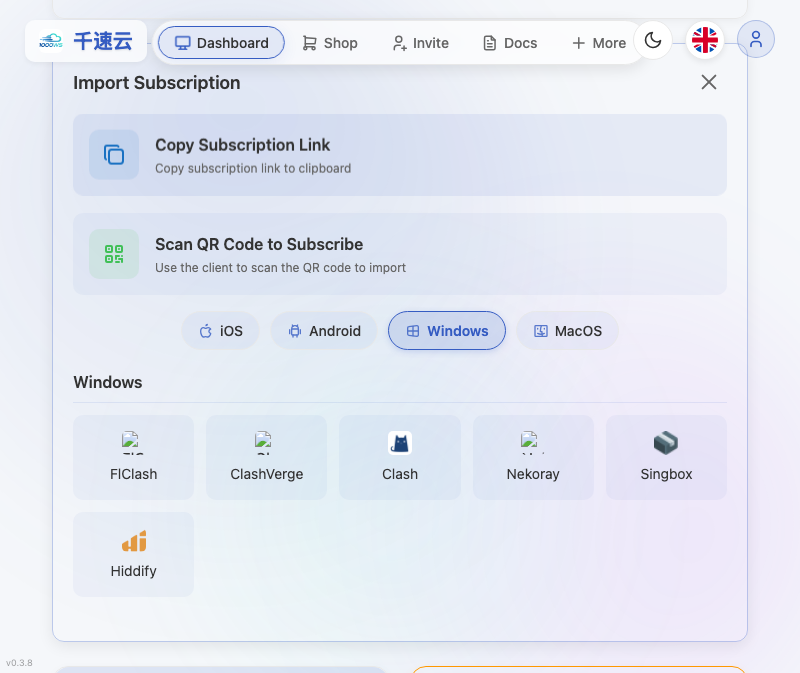
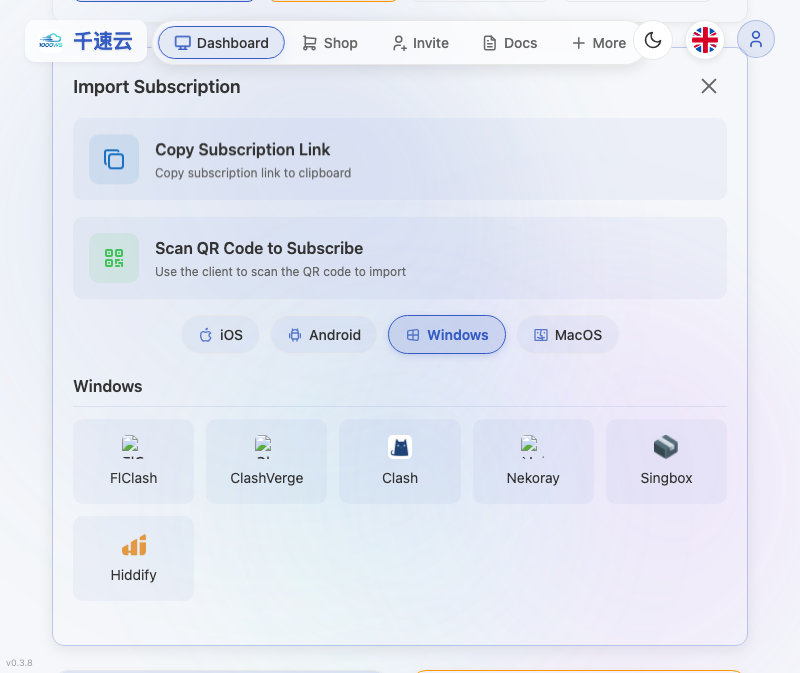
Update all modified files

diff --git a/test_browser.html b/test_browser.html
@@ -1,0 +1,95 @@
+<!DOCTYPE html><html lang="zh-CN" class=" " style="--theme-color: #355cc2; --theme-color-rgb: 53, 92, 194; --theme-hover-color: rgba(53, 92, 194, 0.9); --primary-color-hover: rgba(53, 92, 194, 0.9); --background-color: #f5f7fa; --card-background: #ffffff; --text-color: #333333; --secondary-text-color: #666666; --border-color: #e8e8e8; --shadow-color: rgba(0, 0, 0, 0.1);"><head><meta charset="UTF-8"><meta name="viewport" content="width=device-width,initial-scale=1,maximum-scale=1,user-scalable=no"><meta http-equiv="X-UA-Compatible" content="ie=edge"><link rel="icon" href="./images/logo.png"><title>Dashboard - 千速云</title><link rel="preconnect" href="https://fonts.googleapis.com"><link rel="preconnect" href="https://fonts.gstatic.com" crossorigin=""><link href="https://fonts.googleapis.com/css2?family=Inter:wght@300;400;500;600;700&amp;display=swap" rel="stylesheet" media="all" onload="this.media='all'"><noscript><link href="https://fonts.googleapis.com/css2?family=Inter:wght@300;400;500;600;700&display=swap" rel="stylesheet"></noscript><style>@media (min-width: 769px) {
+            html, body, div, main, section, article, aside, nav {
+                scrollbar-width: none !important;
+                -ms-overflow-style: none !important;
+            }
+
+            ::-webkit-scrollbar, ::-webkit-scrollbar-button, ::-webkit-scrollbar-track, ::-webkit-scrollbar-track-piece, ::-webkit-scrollbar-thumb, ::-webkit-scrollbar-corner, ::-webkit-resizer {
+                display: none !important;
+                width: 0 !important;
+                height: 0 !important;
+                background: transparent !important;
+            }
+        }
+
+        html, body {
+            width: 100%;
+            height: 100%;
+        }
+
+        @media (min-width: 769px) {
+            * {
+                scrollbar-width: none !important;
+                -ms-overflow-style: none !important;
+            }
+        }
+
+        html, body {
+            margin: 0;
+            padding: 0;
+            width: 100%;
+            height: 100%;
+            overflow-x: hidden;
+        }
+
+        #app {
+            width: 100%;
+            height: 100%;
+        }
+
+        html.preloader-active, body.preloader-active {
+            overflow: hidden !important;
+        }</style><style>.app-version {
+            position: fixed;
+            left: 6px;
+            bottom: 4px;
+            font-size: 9px;
+            color: rgba(0, 0, 0, 0.35);
+            user-select: none;
+            pointer-events: none;
+            z-index: 5;
+        }</style><script defer="defer" src="static/js/chunk-vendors.c3d07325.js"></script><script defer="defer" src="static/js/index.21cae11a.js"></script><link rel="stylesheet" type="text/css" href="static/css/827.4b6d285b.css"><link rel="stylesheet" type="text/css" href="static/css/412.77a1e99d.css"><link rel="stylesheet" type="text/css" href="static/css/742.f2006dc5.css"><link rel="stylesheet" type="text/css" href="static/css/655.6a2e988b.css"><link rel="stylesheet" type="text/css" href="static/css/16.ec419e51.css"><link rel="stylesheet" type="text/css" href="static/css/417.5b5dde83.css"><link rel="stylesheet" type="text/css" href="static/css/134.e7beeefd.css"><link rel="stylesheet" type="text/css" href="static/css/416.59b44173.css"><link rel="stylesheet" type="text/css" href="static/css/804.8f7d3a1f.css"><link rel="stylesheet" type="text/css" href="static/css/51.afdb0629.css"><link rel="stylesheet" type="text/css" href="static/css/548.68057f90.css"><link rel="stylesheet" type="text/css" href="static/css/69.be73cccc.css"><link rel="stylesheet" type="text/css" href="static/css/350.f40c898f.css"><style type="text/css">
+@keyframes y-axis-4ff796ae {
+to {
+    transform: translate3d(0, var(--floor-height), 0);
+}
+}
+@keyframes x-axis-4ff796ae {
+to {
+    transform: translate3d(var(--x-landing-point), 0, 0);
+}
+}
+@keyframes rotation-4ff796ae {
+to {
+    transform: rotate3d(var(--rotation), 360deg);
+}
+}
+.confetti-container[data-v-4ff796ae] {
+  width: 0;
+  height: 0;
+  overflow: visible;
+  position: relative;
+  transform: translate3d(var(--x, 0), var(--y, 0), 0);
+  z-index: 1200;
+}
+.confetti-container > .particle[data-v-4ff796ae] {
+  animation: x-axis-4ff796ae var(--duration-chaos) forwards cubic-bezier(var(--x1), var(--x2), var(--x3), var(--x4));
+}
+.confetti-container > .particle div[data-v-4ff796ae] {
+  position: absolute;
+  top: 0;
+  left: 0;
+  animation: y-axis-4ff796ae var(--duration-chaos) forwards cubic-bezier(var(--y1), var(--y2), var(--y3), var(--y4));
+  width: var(--width);
+  height: var(--height);
+}
+.confetti-container > .particle div[data-v-4ff796ae]:before {
+  display: block;
+  height: 100%;
+  width: 100%;
+  content: "";
+  background-color: var(--bgcolor);
+  animation: rotation-4ff796ae var(--rotation-duration) infinite linear;
+  border-radius: var(--border-radius);
+}
[1 lines of base64/hex data omitted]